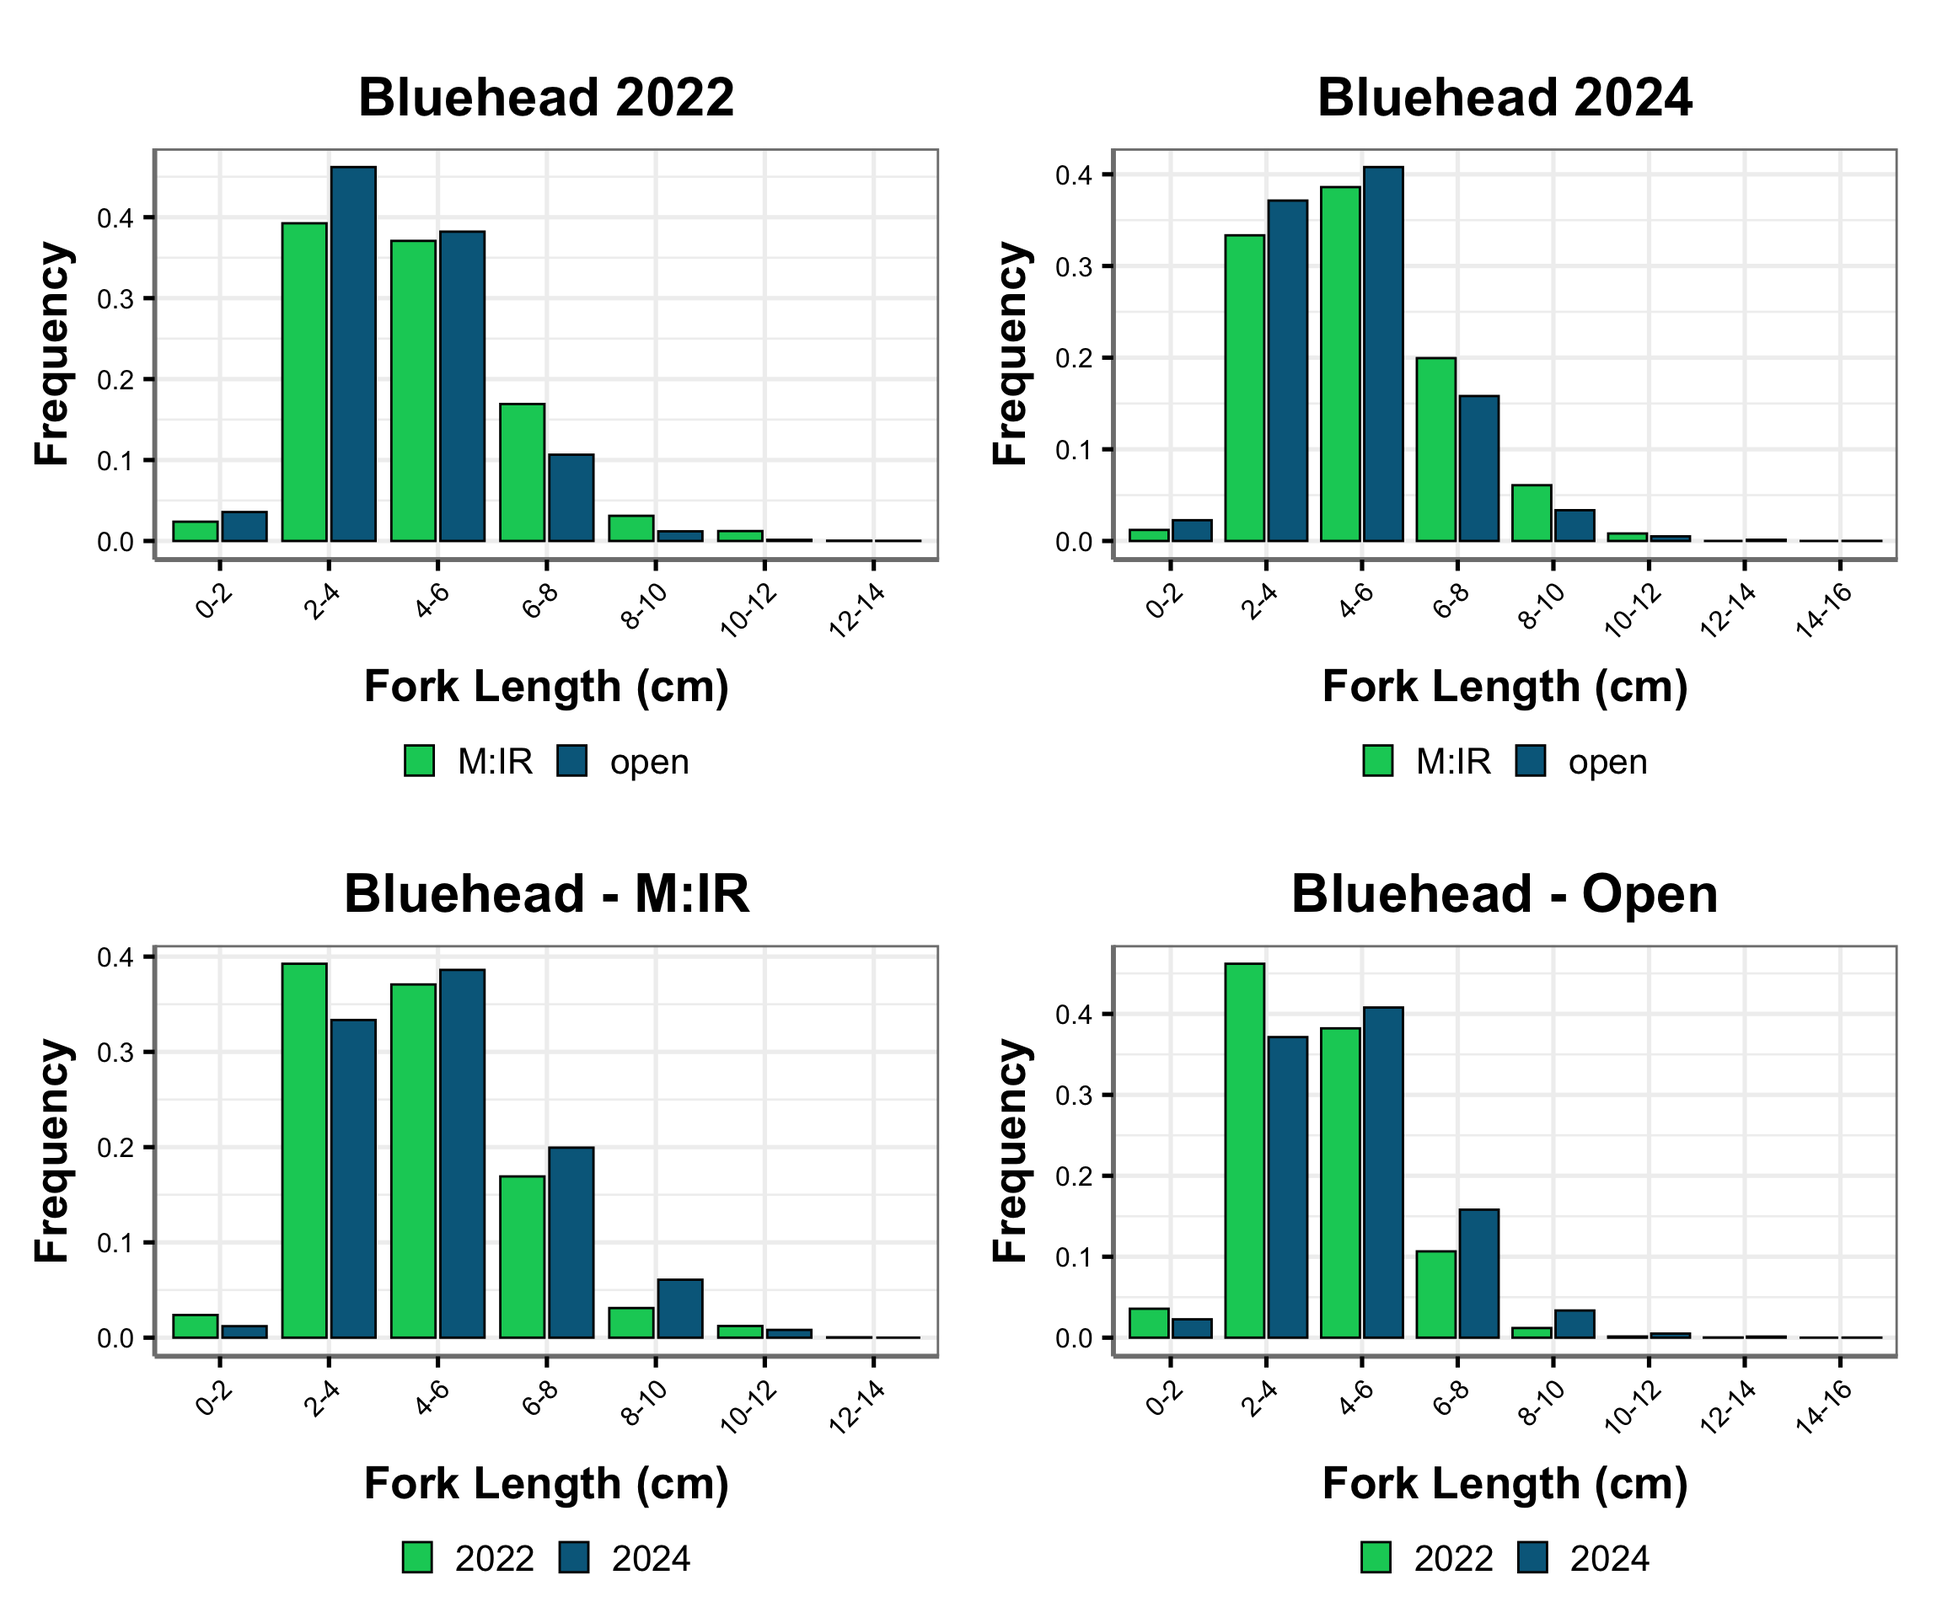
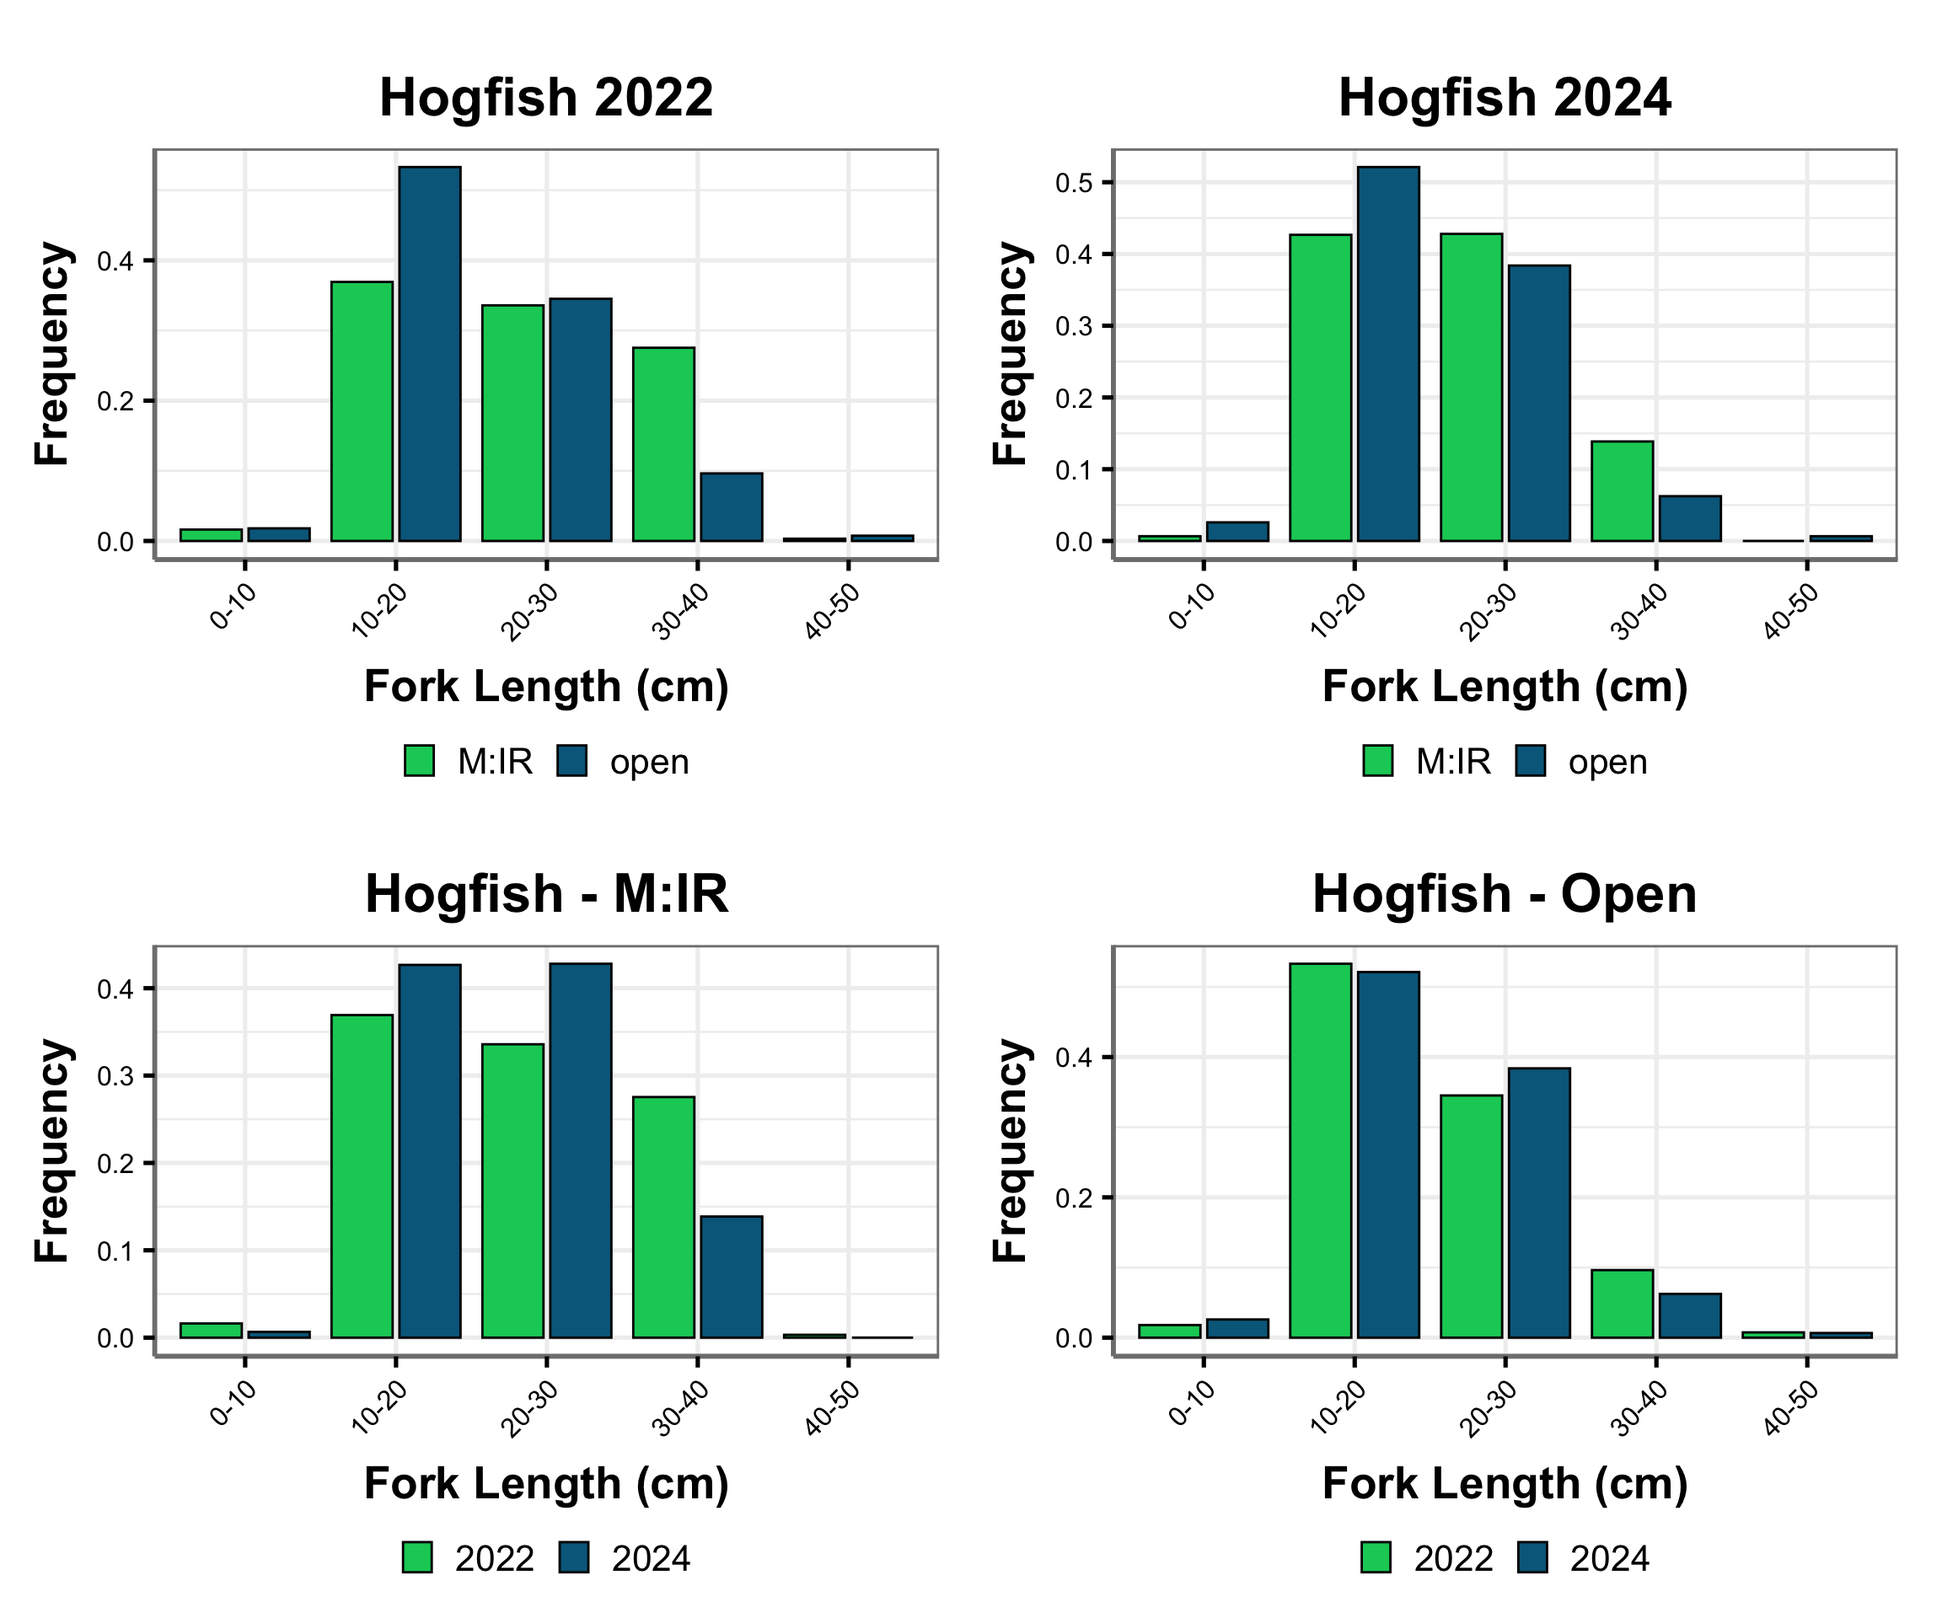
Improved LF auto bins

diff --git a/docs/index.html b/docs/index.html
@@ -7,7 +7,7 @@
 <meta name="viewport" content="width=device-width, initial-scale=1.0, user-scalable=yes">
 
 <meta name="author" content="Jeremiah Blondeau + Jay Grove + Rob Harper  (NOAA Fisheries, Southeast Fisheries Science Center)">
-<meta name="dcterms.date" content="2025-09-11">
+<meta name="dcterms.date" content="2025-09-12">
 
 <title>Mission: Iconic Reefs and National Coral Reef Monitoring Program Reef Fish Analyses</title>
 <style>
@@ -120,7 +120,7 @@ window.Quarto = {
       <div>
       <div class="quarto-title-meta-heading">Published</div>
       <div class="quarto-title-meta-contents">
-        <p class="date">September 11, 2025</p>
+        <p class="date">September 12, 2025</p>
       </div>
     </div>
     
@@ -251,8 +251,8 @@ document.addEventListener("DOMContentLoaded", function() {
 <h3 data-number="2.1" class="anchored" data-anchor-id="strata"><span class="header-section-number">2.1</span> Strata</h3>
 <div class="cell">
 <div class="cell-output-display">
-<div class="datatables html-widget html-fill-item" id="htmlwidget-51300e7ed65394a90778" style="width:100%;height:auto;"></div>
-<script type="application/json" data-for="htmlwidget-51300e7ed65394a90778">{"x":{"filter":"none","vertical":false,"caption":"<caption style=\"caption-side: top; text-align: left; font-weight: bold;\">Table 1: Number of reef fish survey sites inside and outside M:IR areas in each stratum by year.<\/caption>","data":[["Outside","Outside","Outside","Outside","Outside","Inside","Inside","Inside","Inside","Inside"],["FK01","FK02","FK03","FK04","FK05","FK01","FK02","FK03","FK04","FK05"],["Inshore reefs, all depths","Mid-channel patch reefs, all depths","Offshore patch, all depths","Forereef, low rugosity, &lt;12m","Forereef, high rugosity, &lt;12m","Inshore reefs, all depths","Mid-channel patch reefs, all depths","Offshore patch, all depths","Forereef, low rugosity, &lt;12m","Forereef, high rugosity, &lt;12m"],[0,101,61,95,88,0,12,7,5,61],[15,100,36,105,87,12,13,8,15,64]],"container":"<table class=\"cell-border stripe\">\n  <thead>\n    <tr>\n      <th>Study Area<\/th>\n      <th>Strata Name<\/th>\n      <th>Strata Description<\/th>\n      <th>2022<\/th>\n      <th>2024<\/th>\n    <\/tr>\n  <\/thead>\n<\/table>","options":{"columnDefs":[{"className":"dt-center","targets":"_all"},{"name":"PROT","targets":0},{"name":"STRAT","targets":1},{"name":"description","targets":2},{"name":"2022","targets":3},{"name":"2024","targets":4}],"info":false,"paging":false,"searching":false,"order":[],"autoWidth":false,"orderClasses":false}},"evals":[],"jsHooks":[]}</script>
+<div class="datatables html-widget html-fill-item" id="htmlwidget-c1195a19884b1356ce35" style="width:100%;height:auto;"></div>
+<script type="application/json" data-for="htmlwidget-c1195a19884b1356ce35">{"x":{"filter":"none","vertical":false,"caption":"<caption style=\"caption-side: top; text-align: left; font-weight: bold;\">Table 1: Number of reef fish survey sites inside and outside M:IR areas in each stratum by year.<\/caption>","data":[["Outside","Outside","Outside","Outside","Outside","Inside","Inside","Inside","Inside","Inside"],["FK01","FK02","FK03","FK04","FK05","FK01","FK02","FK03","FK04","FK05"],["Inshore reefs, all depths","Mid-channel patch reefs, all depths","Offshore patch, all depths","Forereef, low rugosity, &lt;12m","Forereef, high rugosity, &lt;12m","Inshore reefs, all depths","Mid-channel patch reefs, all depths","Offshore patch, all depths","Forereef, low rugosity, &lt;12m","Forereef, high rugosity, &lt;12m"],[0,101,61,95,88,0,12,7,5,61],[15,100,36,105,87,12,13,8,15,64]],"container":"<table class=\"cell-border stripe\">\n  <thead>\n    <tr>\n      <th>Study Area<\/th>\n      <th>Strata Name<\/th>\n      <th>Strata Description<\/th>\n      <th>2022<\/th>\n      <th>2024<\/th>\n    <\/tr>\n  <\/thead>\n<\/table>","options":{"columnDefs":[{"className":"dt-center","targets":"_all"},{"name":"PROT","targets":0},{"name":"STRAT","targets":1},{"name":"description","targets":2},{"name":"2022","targets":3},{"name":"2024","targets":4}],"info":false,"paging":false,"searching":false,"order":[],"autoWidth":false,"orderClasses":false}},"evals":[],"jsHooks":[]}</script>
 </div>
 </div>
 <div style="page-break-after: always;"></div>
@@ -272,8 +272,8 @@ document.addEventListener("DOMContentLoaded", function() {
           }
         </script>
       
-<div class="datatables html-widget html-fill-item" id="htmlwidget-0fd789dd6ab54a904dc7" style="width:100%;height:auto;"></div>
-<script type="application/json" data-for="htmlwidget-0fd789dd6ab54a904dc7">{"x":{"filter":"none","vertical":false,"caption":"<caption style=\"caption-side: top; text-align: left; font-weight: bold;\">Table 2: Fish species with representative photos. For analysis, both porgy species were combined.<\/caption>","data":[["HAE FLAV","SPA VIRI","SCA GUAC","STE PLAN","CAL CALA","CAL NODO","EPI MORI"],["French Grunt","Stoplight Parrotfish","Rainbow Parrotfish","Threespot Damselfish","Saucereye Porgy","Knobbed Porgy","Red Grouper"],["Haemulon flavolineatum","Sparisoma viride","Scarus guacamaia","Stegastes planifrons","Calamus calamus","Calamus nodosus","Epinephelus morio"],["<img src=\"species_photos/HAE_FLAV.png\" height=\"60\" style=\"cursor:pointer;\" onclick=\"showLightbox('species_photos/HAE_FLAV.png')\">","<img src=\"species_photos/SPA_VIRI.png\" height=\"60\" style=\"cursor:pointer;\" onclick=\"showLightbox('species_photos/SPA_VIRI.png')\">","<img src=\"species_photos/SCA_GUAC.png\" height=\"60\" style=\"cursor:pointer;\" onclick=\"showLightbox('species_photos/SCA_GUAC.png')\">","<img src=\"species_photos/STE_PLAN.png\" height=\"60\" style=\"cursor:pointer;\" onclick=\"showLightbox('species_photos/STE_PLAN.png')\">","<img src=\"species_photos/CAL_CALA.png\" height=\"60\" style=\"cursor:pointer;\" onclick=\"showLightbox('species_photos/CAL_CALA.png')\">","","<img src=\"species_photos/EPI_MORI.png\" height=\"60\" style=\"cursor:pointer;\" onclick=\"showLightbox('species_photos/EPI_MORI.png')\">"]],"container":"<table class=\"cell-border stripe\">\n  <thead>\n    <tr>\n      <th>Species Code<\/th>\n      <th>Common Name<\/th>\n      <th>Scientific Name<\/th>\n      <th>Photo<\/th>\n    <\/tr>\n  <\/thead>\n<\/table>","options":{"columnDefs":[{"className":"dt-center","targets":"_all"},{"name":"SPECIES_CD","targets":0},{"name":"COMNAME","targets":1},{"name":"SCINAME","targets":2},{"name":"Photo","targets":3}],"info":false,"paging":false,"searching":false,"order":[],"autoWidth":false,"orderClasses":false,"rowCallback":"function(row, data, displayNum, displayIndex, dataIndex) {\nvar value=data[2]; $(this.api().cell(row, 2).node()).css({'font-style':'italic'});\n}"}},"evals":["options.rowCallback"],"jsHooks":[]}</script>
+<div class="datatables html-widget html-fill-item" id="htmlwidget-b8c3d42a502953c9f20b" style="width:100%;height:auto;"></div>
+<script type="application/json" data-for="htmlwidget-b8c3d42a502953c9f20b">{"x":{"filter":"none","vertical":false,"caption":"<caption style=\"caption-side: top; text-align: left; font-weight: bold;\">Table 2: Fish species with representative photos. For analysis, both porgy species were combined.<\/caption>","data":[["HAE FLAV","SPA VIRI","SCA GUAC","STE PLAN","CAL CALA","CAL NODO","EPI MORI","EPI ITAJ","LAC MAXI","OCY CHRY","CEP CRUE"],["French Grunt","Stoplight Parrotfish","Rainbow Parrotfish","Threespot Damselfish","Saucereye Porgy","Knobbed Porgy","Red Grouper","Goliath Grouper","Hogfish","Yellowtail Snapper","Graysby"],["Haemulon flavolineatum","Sparisoma viride","Scarus guacamaia","Stegastes planifrons","Calamus calamus","Calamus nodosus","Epinephelus morio","Epinephelus itajara","Lachnolaimus maximus","Ocyurus chrysurus","Cephalopholis cruentata"],["<img src=\"species_photos/HAE_FLAV.png\" height=\"60\" style=\"cursor:pointer;\" onclick=\"showLightbox('species_photos/HAE_FLAV.png')\">","<img src=\"species_photos/SPA_VIRI.png\" height=\"60\" style=\"cursor:pointer;\" onclick=\"showLightbox('species_photos/SPA_VIRI.png')\">","<img src=\"species_photos/SCA_GUAC.png\" height=\"60\" style=\"cursor:pointer;\" onclick=\"showLightbox('species_photos/SCA_GUAC.png')\">","<img src=\"species_photos/STE_PLAN.png\" height=\"60\" style=\"cursor:pointer;\" onclick=\"showLightbox('species_photos/STE_PLAN.png')\">","<img src=\"species_photos/CAL_CALA.png\" height=\"60\" style=\"cursor:pointer;\" onclick=\"showLightbox('species_photos/CAL_CALA.png')\">","<img src=\"species_photos/CAL_NODO.png\" height=\"60\" style=\"cursor:pointer;\" onclick=\"showLightbox('species_photos/CAL_NODO.png')\">","<img src=\"species_photos/EPI_MORI.png\" height=\"60\" style=\"cursor:pointer;\" onclick=\"showLightbox('species_photos/EPI_MORI.png')\">","<img src=\"species_photos/EPI_ITAJ.png\" height=\"60\" style=\"cursor:pointer;\" onclick=\"showLightbox('species_photos/EPI_ITAJ.png')\">","<img src=\"species_photos/LAC_MAXI.png\" height=\"60\" style=\"cursor:pointer;\" onclick=\"showLightbox('species_photos/LAC_MAXI.png')\">","<img src=\"species_photos/OCY_CHRY.png\" height=\"60\" style=\"cursor:pointer;\" onclick=\"showLightbox('species_photos/OCY_CHRY.png')\">","<img src=\"species_photos/CEP_CRUE.png\" height=\"60\" style=\"cursor:pointer;\" onclick=\"showLightbox('species_photos/CEP_CRUE.png')\">"]],"container":"<table class=\"cell-border stripe\">\n  <thead>\n    <tr>\n      <th>Species Code<\/th>\n      <th>Common Name<\/th>\n      <th>Scientific Name<\/th>\n      <th>Photo<\/th>\n    <\/tr>\n  <\/thead>\n<\/table>","options":{"columnDefs":[{"className":"dt-center","targets":"_all"},{"name":"SPECIES_CD","targets":0},{"name":"COMNAME","targets":1},{"name":"SCINAME","targets":2},{"name":"Photo","targets":3}],"info":false,"paging":false,"searching":false,"order":[],"autoWidth":false,"orderClasses":false,"rowCallback":"function(row, data, displayNum, displayIndex, dataIndex) {\nvar value=data[2]; $(this.api().cell(row, 2).node()).css({'font-style':'italic'});\n}"}},"evals":["options.rowCallback"],"jsHooks":[]}</script>
 </div>
 </div>
 <div style="page-break-after: always;"></div>
@@ -311,7 +311,7 @@ document.addEventListener("DOMContentLoaded", function() {
 <h2 data-number="5" class="anchored" data-anchor-id="relative-length-frequency"><span class="header-section-number">5</span> Relative Length Frequency</h2>
 <p>Length compositions provide a detailed description of a selected fish’s population structure. These highly informative figures can show the length at which a fish species recruits to the coral reef (i.e., young of year or from nursery habitat), length classes removed by the local fisheries, and the effectiveness of management actions</p>
 <div class="tabset-margin-container"></div><div class="panel-tabset">
-<ul class="nav nav-tabs" role="tablist"><li class="nav-item" role="presentation"><a class="nav-link active" id="tabset-1-1-tab" data-bs-toggle="tab" data-bs-target="#tabset-1-1" role="tab" aria-controls="tabset-1-1" aria-selected="true" href="">French Grunt</a></li><li class="nav-item" role="presentation"><a class="nav-link" id="tabset-1-2-tab" data-bs-toggle="tab" data-bs-target="#tabset-1-2" role="tab" aria-controls="tabset-1-2" aria-selected="false" href="">Stoplight Parrotfish</a></li><li class="nav-item" role="presentation"><a class="nav-link" id="tabset-1-3-tab" data-bs-toggle="tab" data-bs-target="#tabset-1-3" role="tab" aria-controls="tabset-1-3" aria-selected="false" href="">Rainbow Parrotfish</a></li><li class="nav-item" role="presentation"><a class="nav-link" id="tabset-1-4-tab" data-bs-toggle="tab" data-bs-target="#tabset-1-4" role="tab" aria-controls="tabset-1-4" aria-selected="false" href="">Threespot Damselfish</a></li><li class="nav-item" role="presentation"><a class="nav-link" id="tabset-1-5-tab" data-bs-toggle="tab" data-bs-target="#tabset-1-5" role="tab" aria-controls="tabset-1-5" aria-selected="false" href="">Porgy</a></li><li class="nav-item" role="presentation"><a class="nav-link" id="tabset-1-6-tab" data-bs-toggle="tab" data-bs-target="#tabset-1-6" role="tab" aria-controls="tabset-1-6" aria-selected="false" href="">Red Grouper</a></li></ul>
+<ul class="nav nav-tabs" role="tablist"><li class="nav-item" role="presentation"><a class="nav-link active" id="tabset-1-1-tab" data-bs-toggle="tab" data-bs-target="#tabset-1-1" role="tab" aria-controls="tabset-1-1" aria-selected="true" href="">French Grunt</a></li><li class="nav-item" role="presentation"><a class="nav-link" id="tabset-1-2-tab" data-bs-toggle="tab" data-bs-target="#tabset-1-2" role="tab" aria-controls="tabset-1-2" aria-selected="false" href="">Stoplight Parrotfish</a></li><li class="nav-item" role="presentation"><a class="nav-link" id="tabset-1-3-tab" data-bs-toggle="tab" data-bs-target="#tabset-1-3" role="tab" aria-controls="tabset-1-3" aria-selected="false" href="">Rainbow Parrotfish</a></li><li class="nav-item" role="presentation"><a class="nav-link" id="tabset-1-4-tab" data-bs-toggle="tab" data-bs-target="#tabset-1-4" role="tab" aria-controls="tabset-1-4" aria-selected="false" href="">Threespot Damselfish</a></li><li class="nav-item" role="presentation"><a class="nav-link" id="tabset-1-5-tab" data-bs-toggle="tab" data-bs-target="#tabset-1-5" role="tab" aria-controls="tabset-1-5" aria-selected="false" href="">Porgy</a></li><li class="nav-item" role="presentation"><a class="nav-link" id="tabset-1-6-tab" data-bs-toggle="tab" data-bs-target="#tabset-1-6" role="tab" aria-controls="tabset-1-6" aria-selected="false" href="">Red Grouper</a></li><li class="nav-item" role="presentation"><a class="nav-link" id="tabset-1-7-tab" data-bs-toggle="tab" data-bs-target="#tabset-1-7" role="tab" aria-controls="tabset-1-7" aria-selected="false" href="">Goliath Grouper</a></li><li class="nav-item" role="presentation"><a class="nav-link" id="tabset-1-8-tab" data-bs-toggle="tab" data-bs-target="#tabset-1-8" role="tab" aria-controls="tabset-1-8" aria-selected="false" href="">Hogfish</a></li><li class="nav-item" role="presentation"><a class="nav-link" id="tabset-1-9-tab" data-bs-toggle="tab" data-bs-target="#tabset-1-9" role="tab" aria-controls="tabset-1-9" aria-selected="false" href="">Yellowtail Snapper</a></li><li class="nav-item" role="presentation"><a class="nav-link" id="tabset-1-10-tab" data-bs-toggle="tab" data-bs-target="#tabset-1-10" role="tab" aria-controls="tabset-1-10" aria-selected="false" href="">Graysby</a></li></ul>
 <div class="tab-content">
 <div id="tabset-1-1" class="tab-pane active" role="tabpanel" aria-labelledby="tabset-1-1-tab">
 <p><img src="Index_files/figure-html/unnamed-chunk-7-1.png" class="img-fluid" width="1152"></p>
@@ -330,6 +330,18 @@ document.addEventListener("DOMContentLoaded", function() {
 </div>
 <div id="tabset-1-6" class="tab-pane" role="tabpanel" aria-labelledby="tabset-1-6-tab">
 <p><img src="Index_files/figure-html/unnamed-chunk-7-6.png" class="img-fluid" width="1152"></p>
+</div>
+<div id="tabset-1-7" class="tab-pane" role="tabpanel" aria-labelledby="tabset-1-7-tab">
+<p><img src="Index_files/figure-html/unnamed-chunk-7-7.png" class="img-fluid" width="1152"></p>
+</div>
+<div id="tabset-1-8" class="tab-pane" role="tabpanel" aria-labelledby="tabset-1-8-tab">
+<p><img src="Index_files/figure-html/unnamed-chunk-7-8.png" class="img-fluid" width="1152"></p>
+</div>
+<div id="tabset-1-9" class="tab-pane" role="tabpanel" aria-labelledby="tabset-1-9-tab">
+<p><img src="Index_files/figure-html/unnamed-chunk-7-9.png" class="img-fluid" width="1152"></p>
+</div>
+<div id="tabset-1-10" class="tab-pane" role="tabpanel" aria-labelledby="tabset-1-10-tab">
+<p><img src="Index_files/figure-html/unnamed-chunk-7-10.png" class="img-fluid" width="1152"></p>
 </div>
 </div>
 </div>
